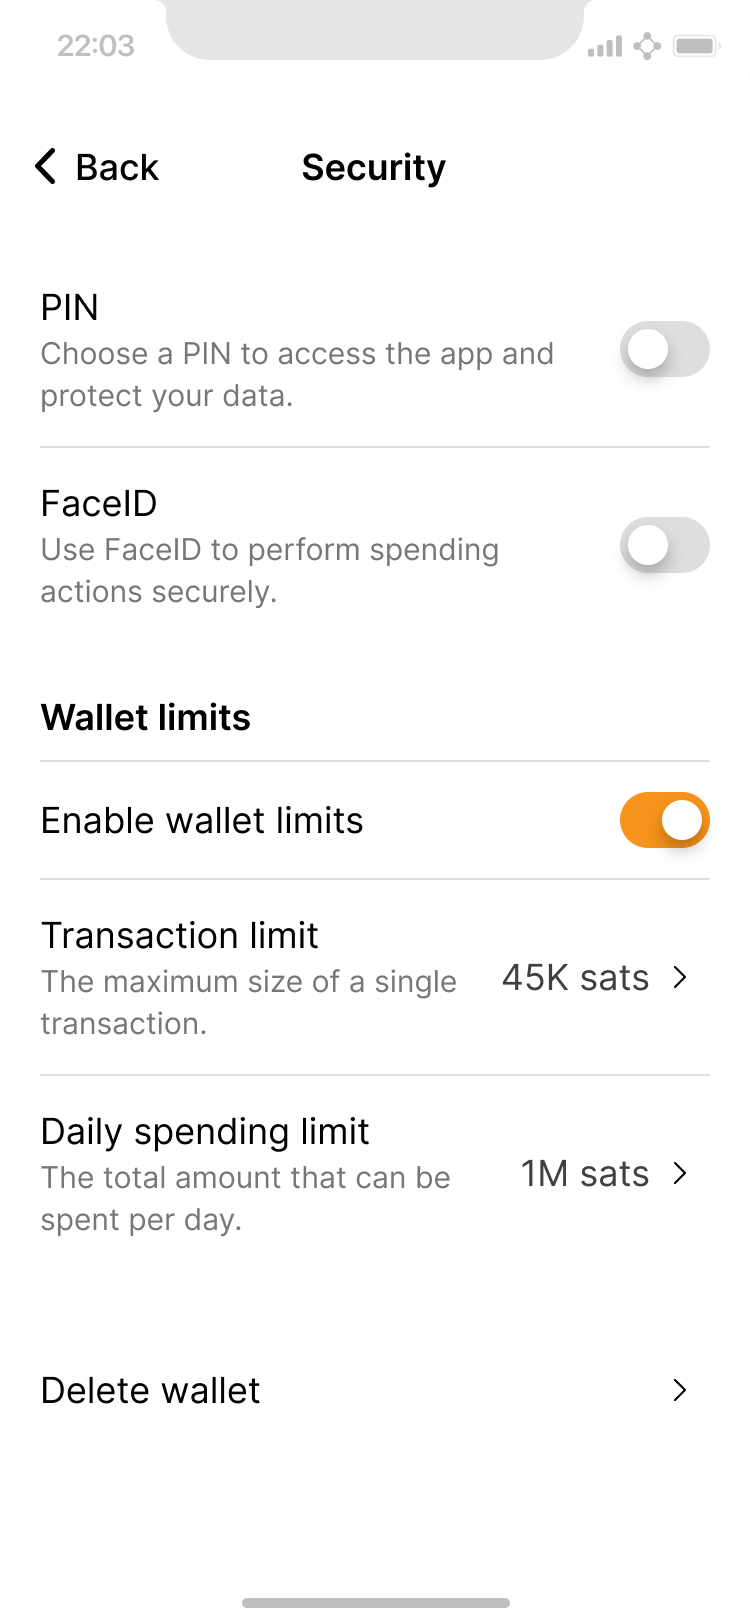
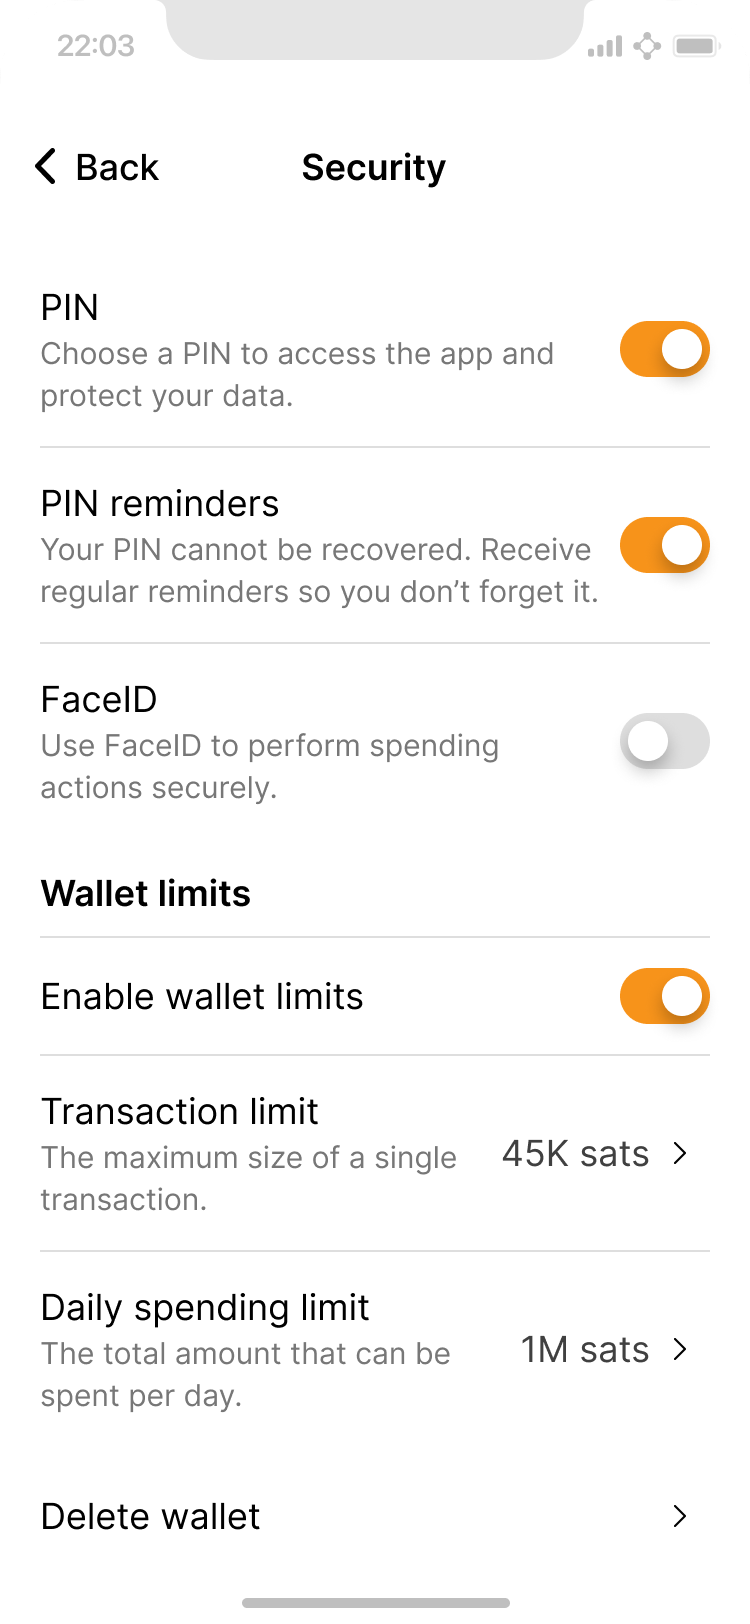
Add PIN reminders to the daily spending wallet
Adds setting for PIN reminders to the daily spending wallet, and design considerations for these types of security-related reminders.

Closes #599

diff --git a/guide/daily-spending-wallet/security.md b/guide/daily-spending-wallet/security.md
@@ -32,6 +32,10 @@ images_reminders:
       modalImage: home-security-reminder-big
       alt: Wallet home screen with a reminder to review security settings
       caption: A more subtle inline reminder that takes users to the security checklist.
+    - file: home-pin-reminder
+      modalImage: home-pin-reminder-big
+      alt: Mobile screen requesting the user to enter their PIN
+      caption: Users can enable regular PIN reminders so they don't forget it.
 images_pin:
     - file: choose-pin
       modalImage: choose-pin-big
@@ -115,9 +119,16 @@ It all starts with a well-designed [first-use]({{ '/guide/daily-spending-wallet/
 
 ### Reminders & recommendations
 
-As a user's behavior and application usage change, the current security settings may no longer be appropriate. A life-changing amount of funds for one user may be pocket change for another, so it is hard to know what is appropriate. Still, applications can proactively make recommendations and remind users to review their setup regularly. This can be based on [spaced repetition](https://en.wikipedia.org/wiki/Spaced_repetition) to encourage good habits, or situationally when user behavior changes. Make sure to allow users to disable this feature.
+As a user's behavior and application usage change, the current security settings may no longer be appropriate. A life-changing amount of funds for one user may be pocket change for another, so it is hard to know what is appropriate. Still, applications can proactively make recommendations and remind users to review their setup regularly. This can be based on [spaced repetition](https://en.wikipedia.org/wiki/Spaced_repetition) to encourage good habits, or situationally when user behavior changes. These features can be set up during [first use]({{ '/guide/daily-spending-wallet/first-use/#security-setup' | relative_url }}), controls can be put on the security checklist, and should be easily disabled in [settings]({{ '/guide/daily-spending-wallet/settings/' | relative_url }}).
 
 {% include image-gallery.html pages = page.images_reminders %}
+
+Here are some starting considerations for designing these behavior:
+
+- Purpose: Should the user remember their PIN, perform a general security check-up, or adjust their security based on context?
+- Trigger event: Has a certain time interval passed (fixed or spaced), a threshold been exceeded, or a certain action been taken (e.g. first deposit)?
+- Presentation: From OS notification to dismissable modals and contextual banners, there are various options.
+- Etiquette: Do not alarm the user, but be helpful. Don't bother them unless necessary and not during other sensitive activities (e.g. sending).
 
 ### Security checklist
 
